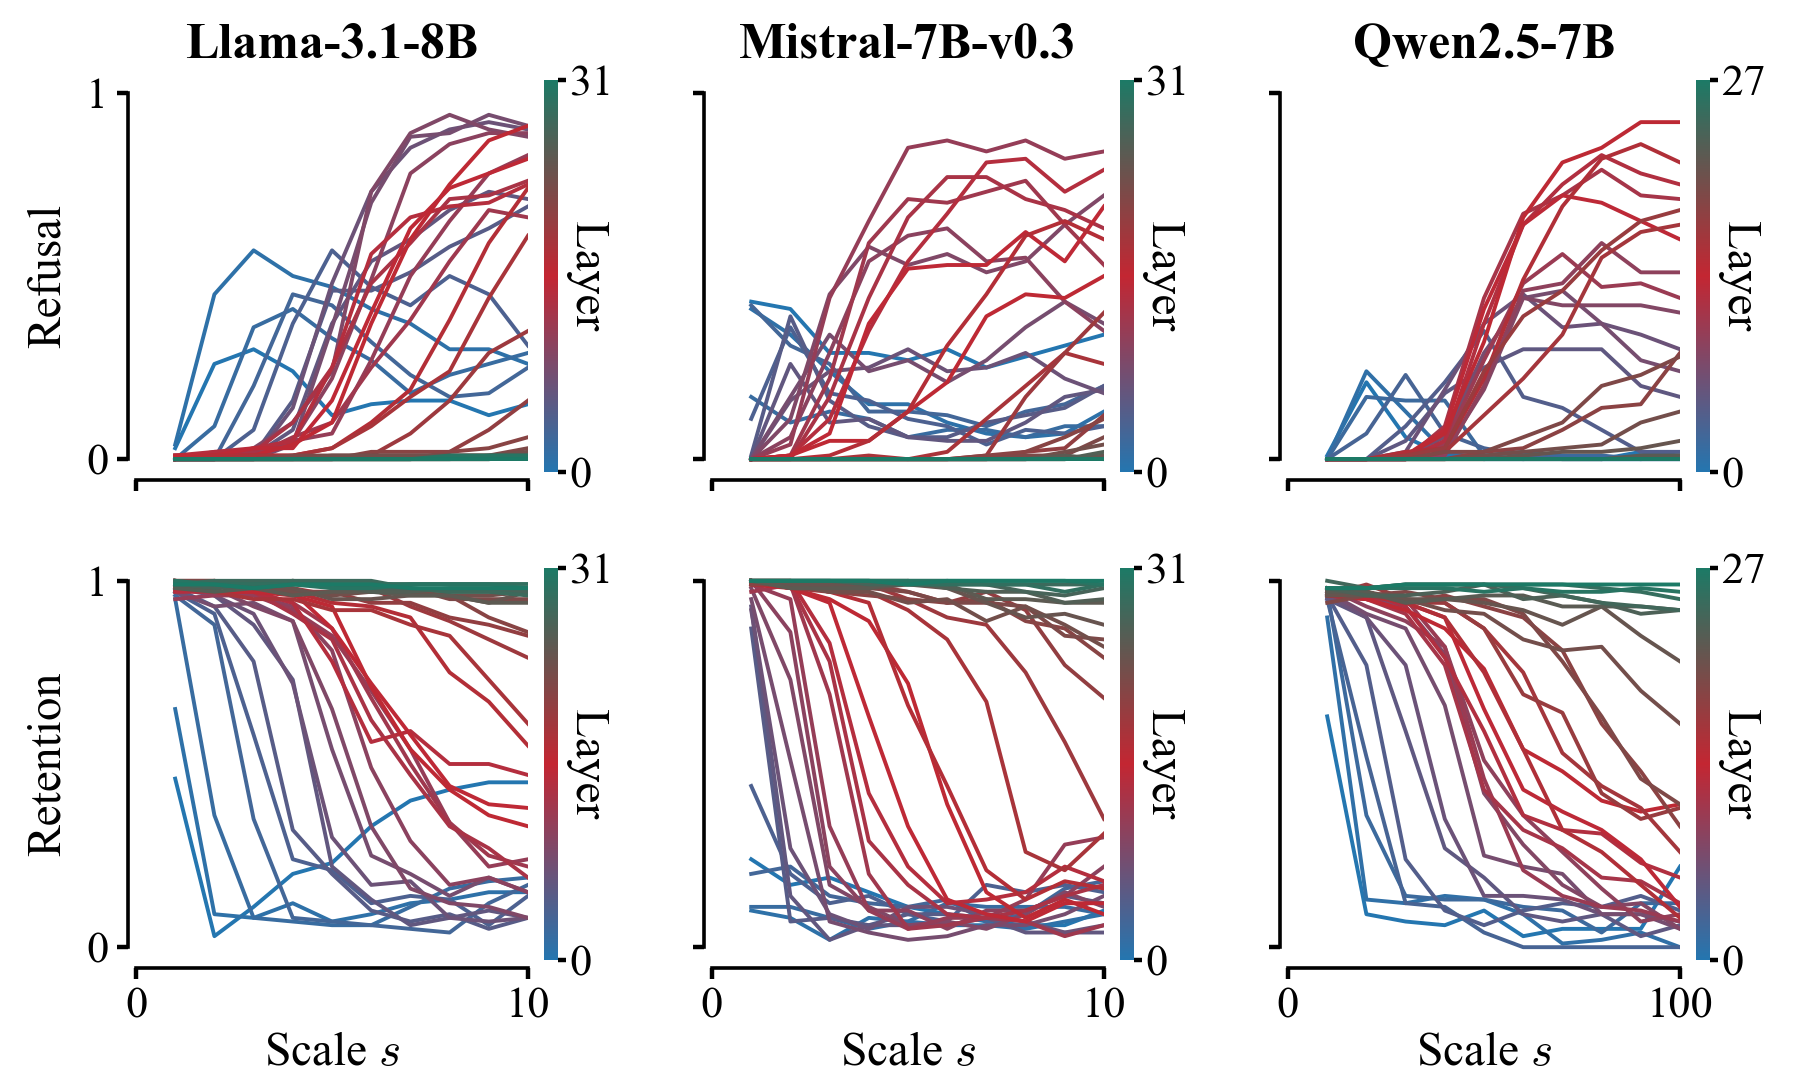
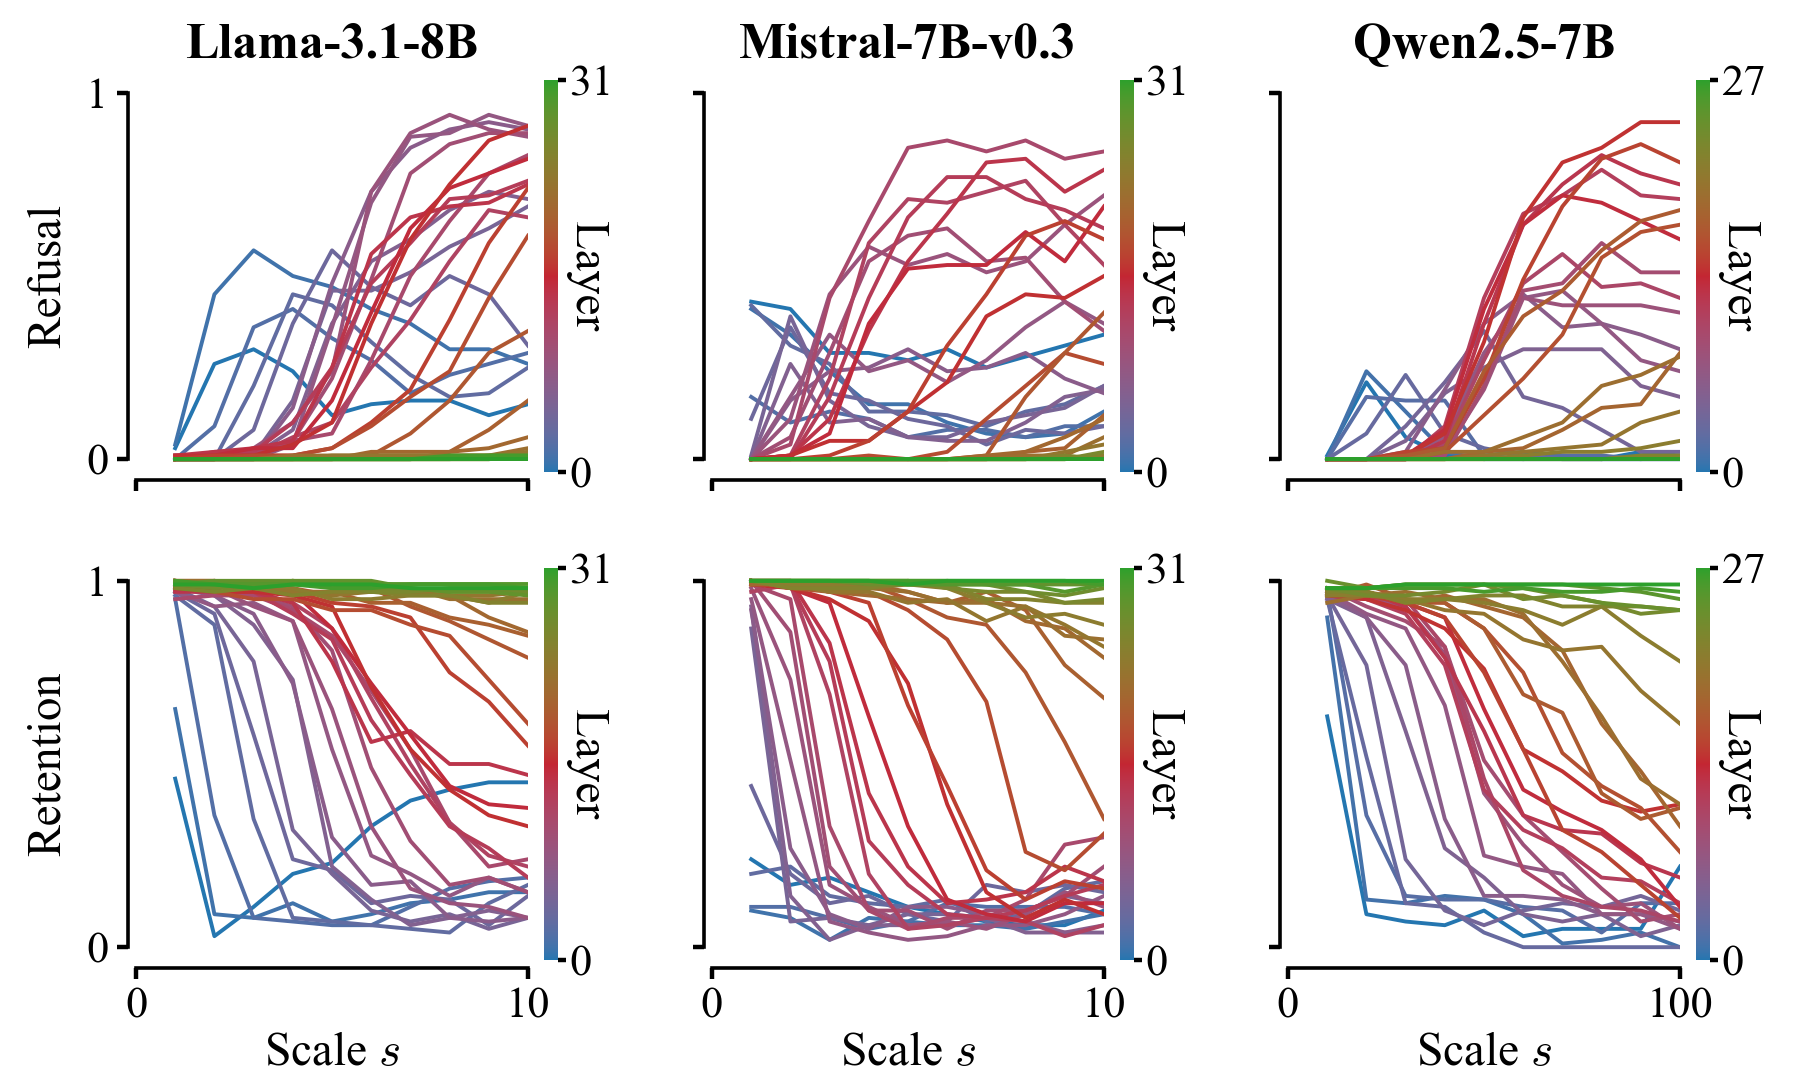
Brighten layer gradient blends and separate green from blue

diff --git a/parking/cosyne_refusal_figures/replot.py b/parking/cosyne_refusal_figures/replot.py
@@ -11,7 +11,7 @@ import matplotlib.pyplot as plt
 import numpy as np
 import pandas as pd
 import pymupdf
-from matplotlib.colors import LinearSegmentedColormap, Normalize
+from matplotlib.colors import LinearSegmentedColormap, Normalize, to_rgb
 from matplotlib.cm import ScalarMappable
 from matplotlib.patches import FancyArrowPatch, FancyBboxPatch, ConnectionPatch, PathPatch
 from matplotlib.collections import PatchCollection
@@ -57,10 +57,16 @@ def save(fig, name):
 
 
 def layer_colormap():
-    """Direct continuous RGB interpolation between exactly three anchors."""
-    return LinearSegmentedColormap.from_list(
-        "layer_depth", [(0.0, "#2476B0"), (0.5, "#C32632"), (1.0, "#1C7A66")],
-        N=4097)
+    """Blend three anchors in linear-light RGB to avoid dark transitions."""
+    anchors = np.array([to_rgb(c) for c in ["#2476B0", "#C32632", "#2CA02C"]])
+    linear = np.where(anchors <= .04045, anchors/12.92,
+                      ((anchors + .055)/1.055)**2.4)
+    depth = np.linspace(0, 1, 4097)
+    blended = np.column_stack([np.interp(depth, [0, .5, 1], channel)
+                               for channel in linear.T])
+    rgb = np.where(blended <= .0031308, 12.92*blended,
+                   1.055*blended**(1/2.4) - .055)
+    return LinearSegmentedColormap.from_list("layer_depth", rgb, N=len(depth))
 
 
 def layer_metrics():
@@ -121,8 +127,8 @@ def layer_metrics():
     save(fig, "layer_metrics")
     LAYOUT['layer_metrics'].update({'subplot_inches':[.98,.98],
                                     'row_gap_inches':.24,'column_gap_inches':.46,'colorbars':6,
-                                    'layer_palette':'direct continuous RGB interpolation; three anchors only',
-                                    'layer_palette_anchors':['#2476B0','#C32632','#1C7A66'],
+                                    'layer_palette':'continuous linear-light RGB interpolation; three anchors only',
+                                    'layer_palette_anchors':['#2476B0','#C32632','#2CA02C'],
                                     'layer_palette_positions':[0,.5,1]})
 
 

diff --git a/parking/cosyne_refusal_figures/README.md b/parking/cosyne_refusal_figures/README.md
@@ -45,8 +45,10 @@
   refusal or retention rate, with endpoints 0 and 1.
 - Every layer samples one continuous scale defined by exactly three anchors:
   blue `#2476B0` at normalized depth 0, red `#C32632` at 0.5, and green
-  `#1C7A66` at 1. Use direct linear RGB interpolation across each full half
-  of the scale. Red is exactly at the midpoint. Intermediate shades are only
+  `#2CA02C` at 1. Blue and red retain their previous values; green is a
+  clearer green rather than teal. Decode sRGB to linear-light RGB, interpolate
+  across each full half, then encode back to sRGB. This preserves brightness
+  through the blends. Red is exactly at the midpoint. Intermediate shades are only
   mixtures of these anchors; there is no hue-wheel sweep, extra color anchor,
   group boundary, separator line, or faded curve.
 - Each subplot has its own color bar aligned to that subplot; its rotated

diff --git a/parking/cosyne_refusal_figures/caption.md b/parking/cosyne_refusal_figures/caption.md
@@ -43,7 +43,7 @@ Layer and strength dependence. Refusal (top) and retention (bottom) versus scale
 ## Checks
 
 - Visual encoding checked against the final Word PDF and unit plots.
-- 920 settings, 100 targeted responses each; both means unchanged. Direct continuous RGB interpolation between blue, red, and green anchors at 0, 0.5, and 1; alpha 1.0; no numeric changes.
+- 920 settings, 100 targeted responses each; both means unchanged. Continuous linear-light RGB interpolation between blue, red, and green anchors at 0, 0.5, and 1; alpha 1.0; no numeric changes.
 - No additional results are asserted by this layout revision.
 
 # semantic_cloud
